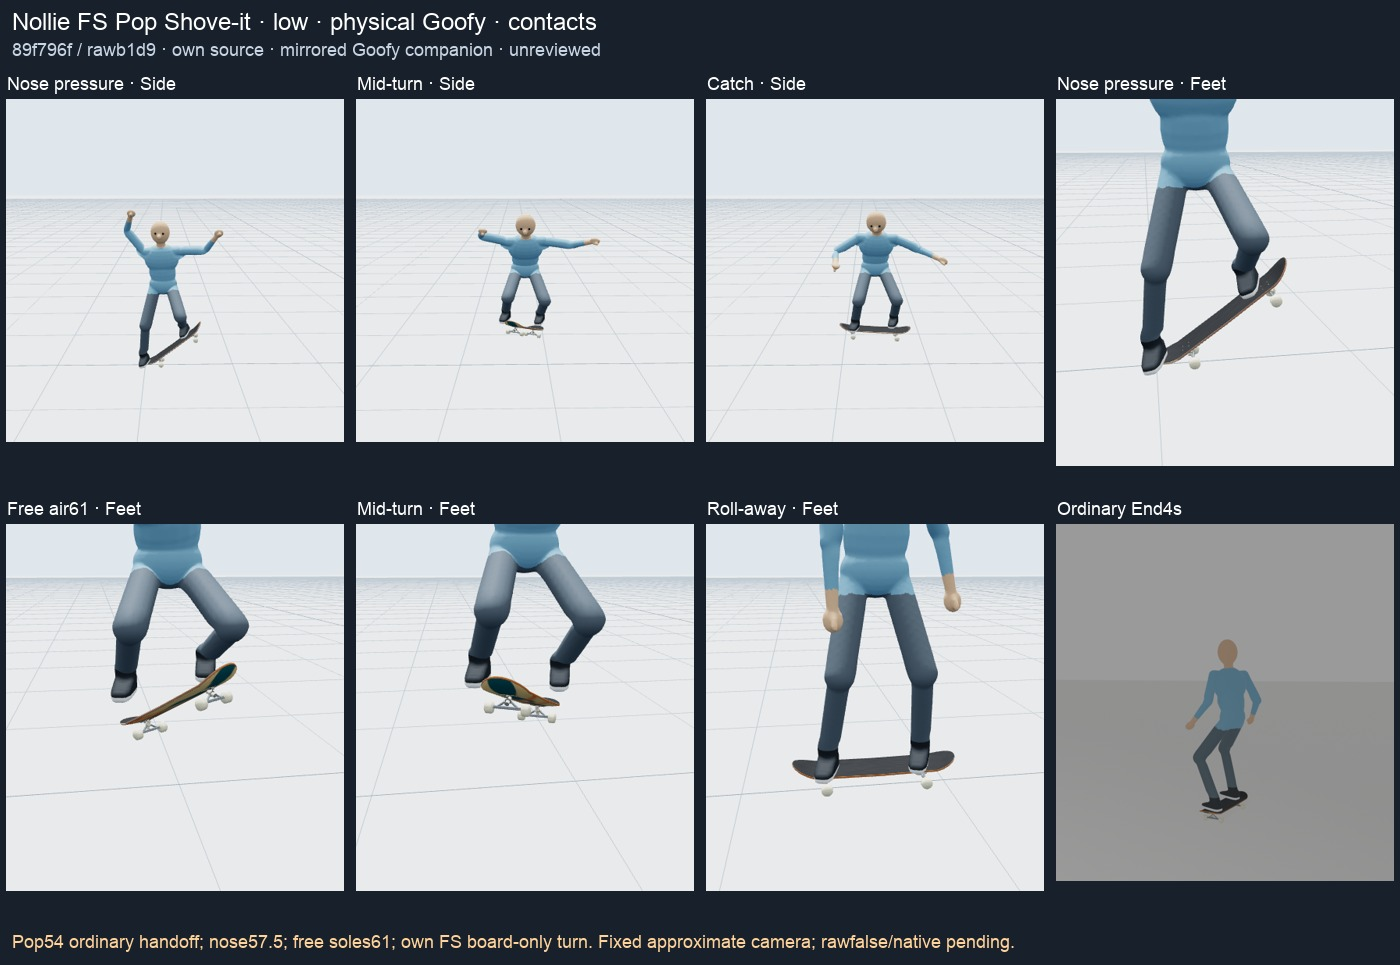
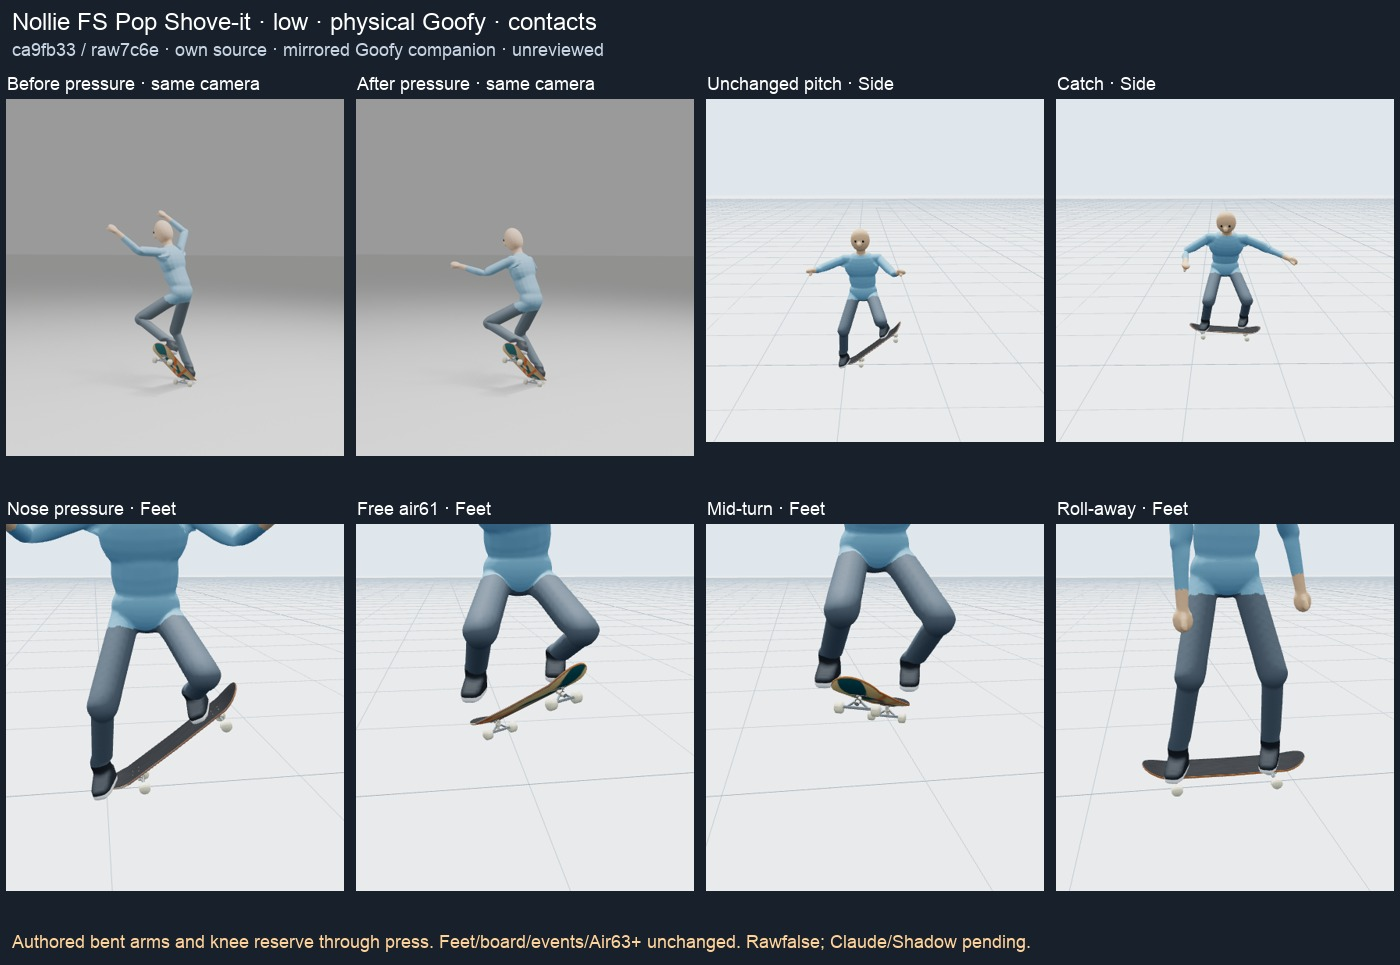
Nollie FS Pop Shove-it: bent balance arms and softer nose press (#727)
* Keep Nollie FS shove arms bent and knees soft through nose press

* Show repaired Nollie FS press balance on the original rig

---------

diff --git a/scripts/author_skate_nollie_fs_pop_shove.py b/scripts/author_skate_nollie_fs_pop_shove.py
@@ -78,6 +78,9 @@ def sample(body, spec, frame):
     origin, rotation = board_at(spec, frame)
     feet = {side: foot_frame(spec, frame, side) for side in ('Left', 'Right')}
     pelvis = origin + value(spec['pelvisRelativeToBoard'], frame)
+    balance = spec.get('pressBalance')
+    if balance is not None:
+        pelvis[1] += float(value(balance['pelvisOffset'], frame)[0])
     hip_axis = unit((captured['LeftHip'] - captured['RightHip']) * np.array([1., 0., 1.]))
     facing = unit(np.cross(UP, hip_axis))
     share = spec['reachShare']['press'] + (spec['reachShare']['free'] - spec['reachShare']['press']) * smooth((frame - spec['noseReleaseFrame']) / (spec['pressEndFrame'] - spec['noseReleaseFrame']))
@@ -120,6 +123,11 @@ def sample(body, spec, frame):
         w = float(value(correction['weights'], frame)[0])
         upper = unit(upper * (1 - w) + local(value(correction['upper'], frame)) * w)
         fore = unit(fore * (1 - w) + local(value(correction['fore'], frame)) * w)
+        if balance is not None:
+            weight = float(value(balance['weights'], frame)[0])
+            if weight > 0:
+                upper = unit(upper * (1 - weight) + local(balance[side]['upper']) * weight)
+                fore = unit(fore * (1 - weight) + local(balance[side]['fore']) * weight)
         j[side + 'Shoulder'] = shoulder
         j[side + 'Elbow'] = shoulder + upper * .29
         j[side + 'Hand'] = j[side + 'Elbow'] + fore * .27

diff --git a/docs/review-media/a5-nollie-fs-pop-shove/README.md b/docs/review-media/a5-nollie-fs-pop-shove/README.md
@@ -1,15 +1,17 @@
-# Nollie FS Pop Shove-it — own source and original-rig review
+# Nollie FS Pop Shove-it — press balance repair
 
-[Viewer](http://127.0.0.1:63761/a5-nollie-fs-pop-shove/) · [batch A5 #716](https://github.com/Dj-Shortcut/rust-skate-mod/issues/716) · [genuine source](https://www.youtube.com/watch?v=tL8Ey9GS0xQ&t=182).
+[Viewer](http://127.0.0.1:63761/a5-nollie-fs-balance/) · [A5 review #716](https://github.com/Dj-Shortcut/rust-skate-mod/issues/716#issuecomment-6567110165) · [genuine source](https://www.youtube.com/watch?v=tL8Ey9GS0xQ&t=182).
 
-This uses the continuous black-shirt/cap take in the existing BATB13 excerpt, not the later reviewed/rebated white attempt. Own anatomy checks on approach, pop overlap, tattooed right arm and rollaway support Regular/Left-nose; no source anatomy reflection is applied. Goofy is the explicitly mirrored runtime companion, not another filmed take. The camera is one fixed estimate from the source deck/hip projection; source pixels are never mirrored and no body/native heading rotation is used to hide a mismatch.
+The review rejected the overhead V arms and extended nose-support leg. Both arms now bend around/below shoulder height, and the pelvis lowers through the pressure window. This is an explicitly authored balance correction, not new source measurement. The same-camera before/after and Side details show the change on the original skin and full 13-part skateboard.
 
-The real rider begins rising at 54, presses the nose at 57.5, releases by 59 / free61, catches around 66.5 / both68 and lands 73, then rolls upright. Those are authored visual estimates, not calibrated 3D measurements. Pop54 is the ordinary-charge handoff/extension start, distinct from maximum nose pressure. Source49 at Load is an explicit procedural phase witness. A new-family presentation root blend reaches the source earlier; real Pad input, native flight/landing/scoring and strict support/reach/shoe/floor guards stay authoritative. The body stays unspun while the board alone turns FS180; feet/toe headings are preserved across deck reversal.
+The original deck pitch is retained. Actual animated GLB nose elevation at the published pressure frame is about37° down for normal height and38° for low, in both physical stances. A separate Side view makes that visible; the source camera, native heading and geometry are unchanged. All board, foot, contact and event values remain identical. All215 complete source rows from Air63 onward and all actual Air63+/recovery body rows remain identical to the accepted presentation; the four entire native traces are unchanged.
 
-Own strict VIDEO extraction selected 82/84 frames. Raw frames 68/69 remain rejected; only bracketed control reconstruction bridges them. Animation frames 30–98 excludes the cropped early cap/head; the next actor cut at 104 is excluded. Far left-wrist depth and contacts/pelvis are deliberately reconstructed from this take. No A4 or other-trick body is loaded. Footage and detector output remain private.
+This remains the same continuous black-shirt/cap BATB13 take: raw20–103, animation30–98, next actor cut104 excluded. Regular/Left-nose is supported by the actual leading leg and tattooed-right-arm witnesses; no source anatomy reflection is applied. Goofy is the mirrored runtime companion, not another filmed take. Original reference pixels and detector output stay private. Raw68/69 remain rejected, with the previous explicitly bracketed reconstruction retained.
 
-Eight rig-only phase/contact sheets cover normal/low and physical Regular/Goofy. They use the original skin/inverse binds and full 13-part board. Animated GLB foot-bone audits, not requested-native labels, determine captions: native Goofy displays physical Regular/Left lead; native Regular displays physical Goofy/Right lead. Side and Feet views expose nose pressure, free soles, mid-turn, catch and ordinary recovery.
+The eight rig-only phase/contact sheets cover normal/low and physical Regular/Goofy. Actual animated foot bones determine labels: requested-native Goofy displays physical Regular, requested-native Regular displays physical Goofy. Contact sheets include the same-time pressure before/after, unchanged deck in Side, and free-shoe/catch/rollaway details. The fixed approximate source camera is preserved.
 
-Four real managed Pad/full Step/Land/scorer cases produce Nollie Frontside Pop Shove-it, no flip/body turn, +180 native shove, one pop and no held continuation/bail. Capture remains selected throughout 36 normal and 34 low Air samples, then finishes before ordinary End at 4 s. All four original-rig viewer cases reached End at 1× and ¼×; 36 source-phase seeks and 28 Side/Feet checks completed without console/runtime errors. Actual decoded-source witnesses stay private. This is controlled managed/original-rig verification, not native Rust or Shadow execution. Raw remains reviewed=false; Claude alone owns the offline verdict/library and Shadow acceptance remains open.
+Four genuine managed Pad/full Step/Land/scorer cases pass with Nollie Frontside Pop Shove-it, +180 native shove, no flip/body turn, one pop and no held continuation or bail. All36 normal and34 low Air samples remain captured. Each original-rig viewer completes1× and¼× through ordinary End4s. The36 settled source seeks have actual decoded-frame callbacks within one source frame;28 Side/Feet and28 pressure-transition views show no console/runtime errors. The inspected53–63 progression does not introduce a second knee/root bounce.
 
-A later provenance-only correction replaces an obsolete white-actor sourceIdentity string in captured-body with the actual own black actor20–103 /animation30–98. Every other body byte, all419 baked frames/events and the entire raw binary remain identical. The original rendered freeze and its recorded body hash stay explicit; manifest.sourceIdentityCorrection records the corrected control hash and unchanged raw hash. No rerender, pose change or new approval is implied.
+PR#726 was a separate historical metadata-only correction: it fixed an obsolete white-actor description while the then-current rawb1d994 and89f796f rig media stayed unchanged. This later balance repair changes motion to raw7c6e754 and rerenders at ca9fb33. The corrected source-body file c2372fa remains unchanged. The manifest keeps those two steps distinct.
+
+Raw remains reviewed=false. This is controlled managed/original-rig verification, not native Rust/Shadow execution. Claude owns the offline verdict/library; Shadow acceptance is still open.

diff --git a/assets/authored/animation/nollie-fs-pop-shove-keyed/README.md b/assets/authored/animation/nollie-fs-pop-shove-keyed/README.md
@@ -8,4 +8,12 @@ The executable scripts/author_skate_nollie_fs_pop_shove.py validates body/geomet
 
 Pop54 is the actual extension start visible in dense54/55, distinct from maximum nose pressure57.5. Release59/free61, catch66.5/both68 and Land73 stay fixed. This corrects the source marker; native flight and shared clocks are unchanged. Private source-camera projection is estimated independently; no torso/arm change is made to compensate for a wrong view.
 
[1 lines of base64/hex data omitted]
+In PR#726, only the obsolete sourceIdentity description and its dependent hash changed. All other body bytes, all419 baked frames/events and the then-current rawb1d994 remained exact; the then-existing89f796f media stayed frozen. This was historical metadata-only work. The separate balance correction below changes motion/raw and rerenders while retaining the corrected c237 source-body file.
+
+## Authored press balance correction
+
+The A5 visual review rejected the overhead V arms and the extended supporting leg at nose pressure. A bounded authored override now bends both arms around or below shoulder height and lowers the pelvis during54–61, fading completely by63. This reconstructs balance and knee reserve rather than claiming new source measurement. The original black actor identity and c237 body file stay unchanged.
+
+Nose pitch is preserved: the actual original-rig GLB deck axis was36.86° down for normal height and38° for low height at the published press frame, within the requested35–45° range. A clear side view accompanies the same fixed source camera; no camera/heading/geometry change hides the projection. Feet, board, source/event timing and all motion from Air63 through Catch/Land/rollaway are unchanged. The raw pack remains reviewed=false; source/mesh replay verification and Claude/Shadow decisions remain separate.
+
+The balance repair has four actual managed cases and four complete1×/¼× original-rig replay pairs, with same-time pressure before/after and Side/feet details in `docs/review-media/a5-nollie-fs-pop-shove/`. All native traces, board/feet/events and actual body rows from Air63 onward remain unchanged. Claude/offline and Shadow acceptance remain separate.
